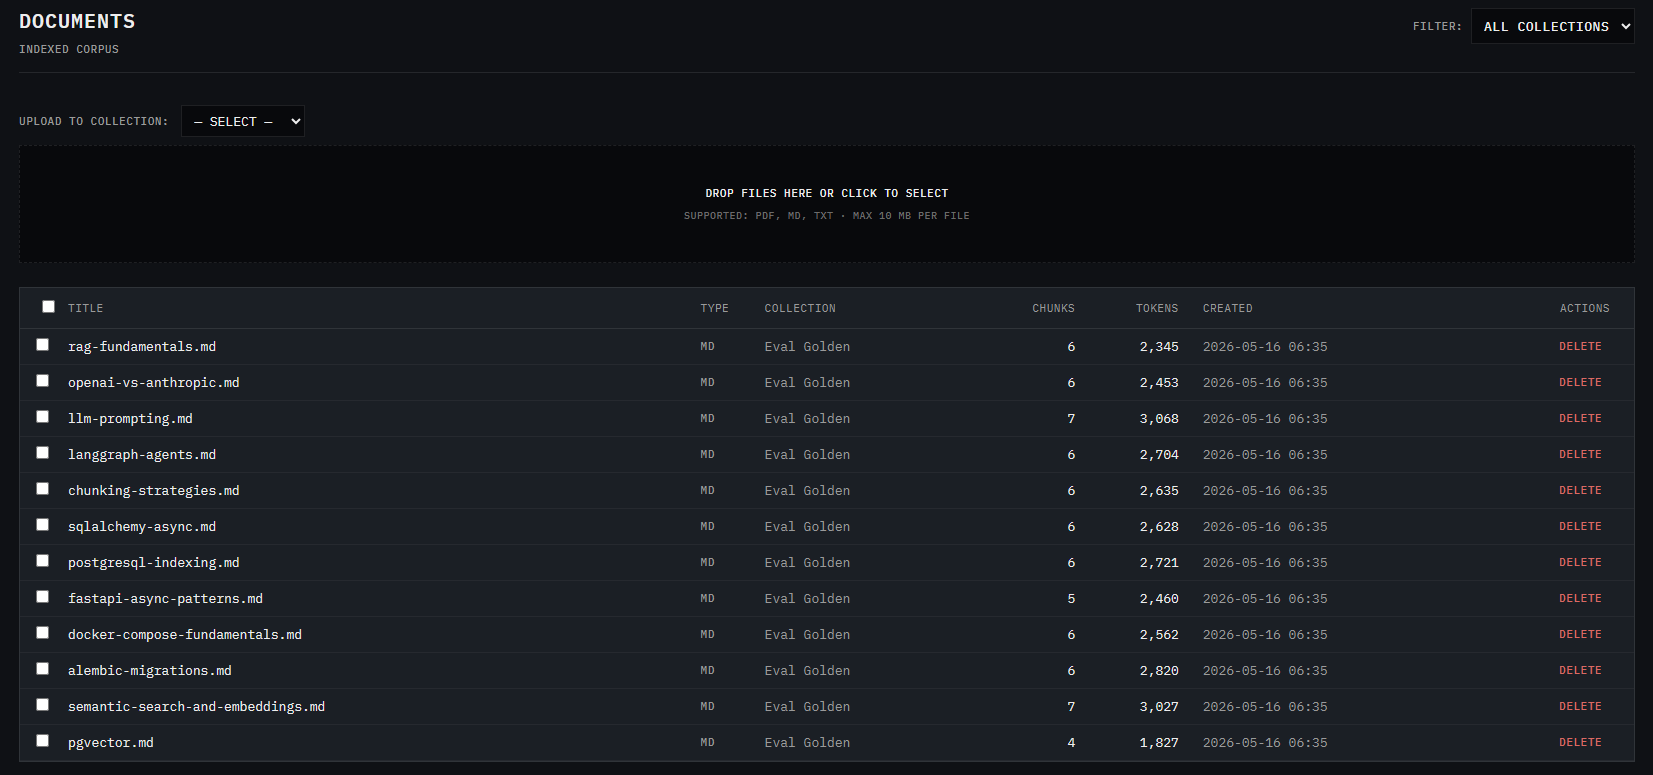
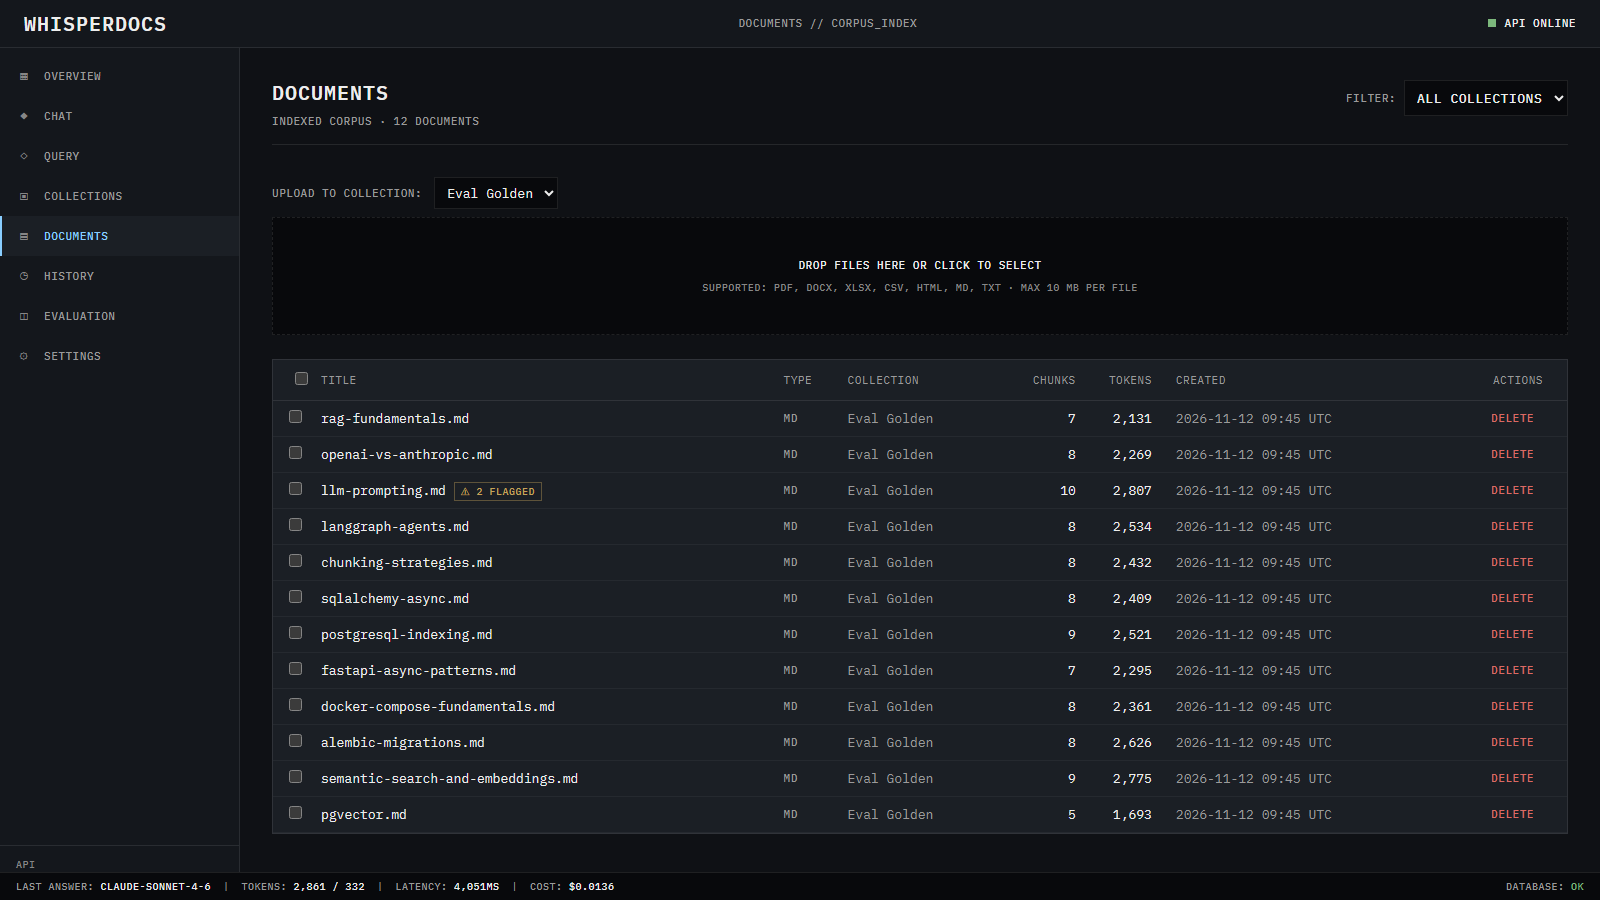
docs(readme): screenshots of the current app (overview, a cited answer with its trace, the sources panel with section and cosine, the documents page with seven formats and flagged chunks); the captions follow what the screens show

diff --git a/README.md b/README.md
@@ -95,23 +95,27 @@ flowchart TB
 
 ### Multi-turn chat with grounded citations
 
-Inline `[n]` citations resolve to the source documents pulled by the retrieval pipeline.
-Per-turn metadata footer shows latency, input/output tokens, model, and USD cost.
+Inline `[n]` citations resolve to the chunks the retrieval pipeline returned. Under each answer,
+the turn's trace lists the steps it took (memory check, intent classification, retrieval and
+generation) with their time, and the footer shows the generation's latency, input/output tokens,
+model and USD cost.
 
 ![Chat answer with citations](media/whisperdocs2.png)
 
 ### Retrieval transparency
 
-Every turn exposes the chunks that were actually retrieved — text, source document, and
-relevance: the fused RRF score scaled to 0–1, or the cross-encoder score when reranking is on.
-Lets you debug retrieval without leaving the chat.
+Every turn exposes the chunks that were actually retrieved, in retrieval order: their text,
+source document and section, cosine similarity to the question (`—` when only full-text
+search found the chunk), and which ones the answer cites. Lets you debug retrieval without
+leaving the chat.
 
 ![Retrieved chunks side panel](media/whisperdocs4.png)
 
 ### Indexed corpus
 
 Drop PDF, DOCX, XLSX, CSV, HTML, Markdown or plain-text files into any collection. Each file
-streams through the async ingestion pipeline; chunk and token counts are visible per document.
+streams through the async ingestion pipeline; chunk and token counts are visible per document,
+and a document whose chunks read as instructions to the model is marked as flagged.
 
 ![Documents library](media/whisperdocs3.png)
 
